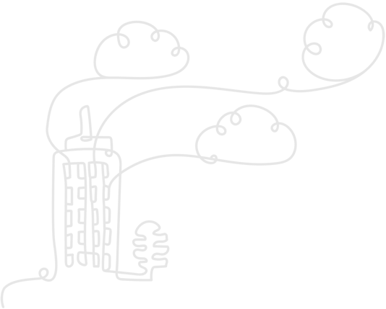
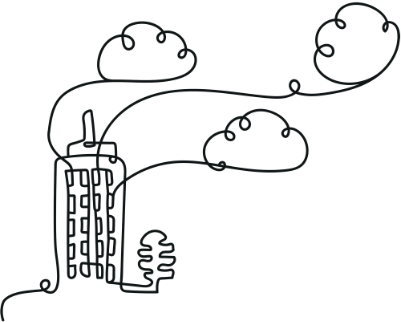
Update images in handbook page

diff --git a/index.md b/index.md
@@ -69,7 +69,7 @@ However, we understand that sometimes this may not be possible and will try to w
 
 It may sometimes be necessary to transfer you to alternative departments, teams or duties within our business. During holiday periods, etc. it may be necessary for you to take over some duties normally performed by colleagues. This flexibility is essential for operational efficiency as the type and volume of work is always subject to change. 
 
-![agile line drawing](images/agile-line-drawing.jpg)
+![agile line drawing](images/agile-line-drawing.png)
 
 ## Values
 
@@ -85,8 +85,7 @@ Our values are:
 6. Love what you do. 
 7. Keep learning. Tomorrows skills are not todays. 
 
-
-<img src="./images/company-line-drawing.png" alt="company line drawing" width="700" height="450" align="center"/>
+![company line drawing](/images/company-line-drawing.png)
 
 ## Pay 
 
@@ -264,7 +263,7 @@ We have a smart/casual dress code. However business attire should be worn when m
 
 Both from the point of view of safety and of appearance, work areas must be kept clean and tidy at all times. We try to provide a variety of coffee and tea but if you have any specific requirements, please let the General Manager know. 
 
-![customer focus line drawing](images/customer-focus-line-drawingjpg.jpg)
+![customer focus line drawing](images/customer-focus-line-drawing.png)
 
 ## Health, Safety, Welfare and Hygiene 
 
